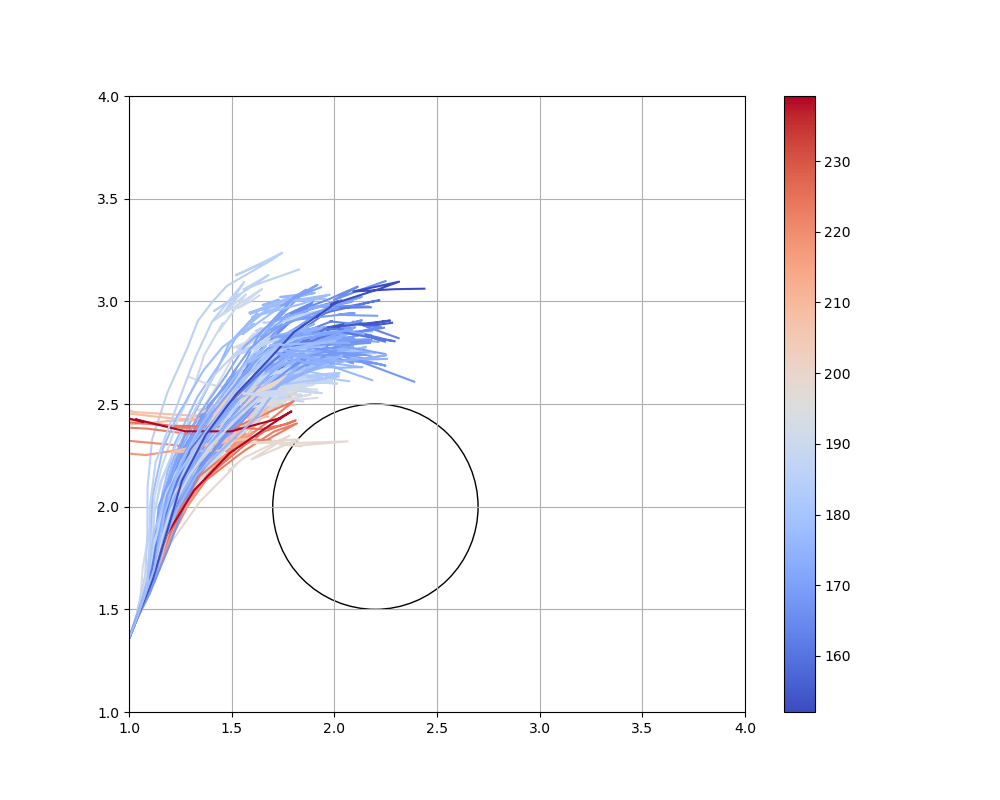
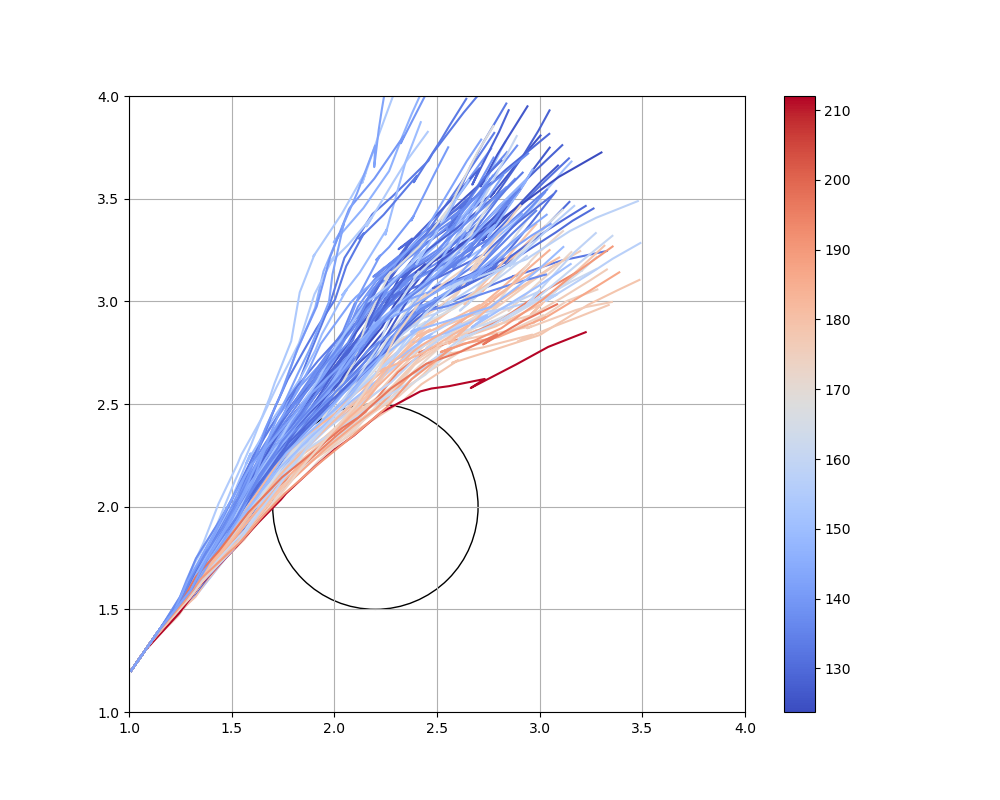
20211024

diff --git a/plot_from_csv.py b/plot_from_csv.py
@@ -15,6 +15,18 @@ def calculate_cost(data):
     # print(np.shape(data)[0])
     for i in range(np.shape(data)[0]):
         cost += (data[i][0] - 4.0) ** 2 + (data[i][1] - 4.0)**2
+        if (data[i][0] - obstcle_x) ** 2 + (data[i][1] - obstcle_y)**2 < r **2:
+            cost += 10   
+    return cost
+
+def calculate_multi_cost(data):
+    cost = 0
+    # print(np.shape(data)[0])
+    for i in range(np.shape(data)[0]):
+        cost += (data[i][0] - 4.0) ** 2 + (data[i][1] - 4.0)**2
+        for j in range(3):
+            if (data[i][0] - Obstacle_X[j]) ** 2 + (data[i][1] - Obstacle_Y[j])**2 < R[j] **2:
+                cost += 10   
     return cost
 
 def state_cost(data):
@@ -22,6 +34,8 @@ def state_cost(data):
     for i in range(np.shape(data)[0]):
         cost = (data[i][0] - 4.0) ** 2 + (data[i][1] - 4.0)**2
         costs.append(cost)
+    if (data[i][0] - obstcle_x) ** 2 + (data[i][1] - obstcle_y)**2 < r **2:
+        cost += 10000
     return costs
 
 def plot_time(data):
@@ -97,7 +111,7 @@ def sample_multi_data_plot(dataname):
     sample_data_CBF_reshape = sample_data_CBF.reshape(sample_data_CBF.shape[0], sample_data_CBF.shape[1] // 3,3)
     sample_data_CBF_cost = []
     for i in range(len(sample_data_CBF_reshape)):
-        cost1 = calculate_cost(sample_data_CBF_reshape[i])
+        cost1 = calculate_multi_cost(sample_data_CBF_reshape[i])
         sample_data_CBF_cost.append(cost1)
 
     # ax = plt.subplots()
@@ -140,14 +154,14 @@ CBF_50 = loadtxt('50sample_single_CBF.csv', delimiter=',')
 
 
 plt.figure(figsize=(8,8))
-plt.plot(np.transpose(CBF_500)[0], np.transpose(CBF_500)[1],label='500_samples')
-plt.plot(np.transpose(CBF_200)[0], np.transpose(CBF_200)[1],label='200_samples')
-plt.plot(np.transpose(CBF_100)[0], np.transpose(CBF_100)[1],label='100_samples')
-plt.plot(np.transpose(CBF_50)[0], np.transpose(CBF_50)[1],label='50_samples')
+plt.plot(np.transpose(CBF_500)[0], np.transpose(CBF_500)[1],label='500 samples')
+plt.plot(np.transpose(CBF_200)[0], np.transpose(CBF_200)[1],label='200 samples')
+plt.plot(np.transpose(CBF_100)[0], np.transpose(CBF_100)[1],label='100 samples')
+plt.plot(np.transpose(CBF_50)[0], np.transpose(CBF_50)[1],label='50 samples')
 circle1 = plt.Circle((obstcle_x, obstcle_y), r, color='k', fill=False)
 ax = plt.gca()
 ax.add_artist(circle1)
-legend = ax.legend(loc='lower right', shadow=True, fontsize='large')
+legend = ax.legend(loc='lower right', shadow=True, fontsize='x-large')
 target_circle = plt.Circle((target[0], target[1]), 0.2, color='b', fill=False)
 target_circle_1 = plt.Circle((target[0], target[1]), 0.1, color='b', fill=False)
 ax.add_artist(target_circle)
@@ -167,10 +181,10 @@ multi_MPPI_50_40 = loadtxt('50sample_40steps_multi_MPPI.csv', delimiter=',')
 multi_MPPI_100_40 = loadtxt('100sample_40steps_multi_MPPI.csv',delimiter=',')
 
 plt.figure(figsize=(8,8))
-plt.plot(np.transpose(multi_CBF_100_20)[0], np.transpose(multi_CBF_100_20)[1],label='100_samples_MPPI_CBF')
-plt.plot(np.transpose(multi_CBF_50_20)[0], np.transpose(multi_CBF_50_20)[1],label='50_samples_MPPI_CBF')
-plt.plot(np.transpose(multi_MPPI_100_40)[0], np.transpose(multi_MPPI_100_40)[1],label='100_samples_MPPI')
-plt.plot(np.transpose(multi_MPPI_50_40)[0], np.transpose(multi_MPPI_50_40)[1],label='50_samples_MPPI')
+plt.plot(np.transpose(multi_CBF_100_20)[0], np.transpose(multi_CBF_100_20)[1],label='100 samples MPPI-CBF')
+plt.plot(np.transpose(multi_CBF_50_20)[0], np.transpose(multi_CBF_50_20)[1],label='50 samples MPPI-CBF')
+plt.plot(np.transpose(multi_MPPI_100_40)[0], np.transpose(multi_MPPI_100_40)[1],label='100 samples MPPI')
+plt.plot(np.transpose(multi_MPPI_50_40)[0], np.transpose(multi_MPPI_50_40)[1],label='50 samples MPPI')
 
 
 for i in range(len(R)):
@@ -178,8 +192,8 @@ for i in range(len(R)):
     ax = plt.gca()
     ax.add_artist(circle1)
 plt.xlim([0,5.5])
-plt.ylim([0,5.5])
-legend = ax.legend(loc='lower right', shadow=True, fontsize='large')
+plt.ylim([-1,4.5])
+legend = ax.legend(loc='lower right', shadow=True, fontsize='x-large')
 target_circle = plt.Circle((target[0], target[1]), 0.2, color='b', fill=False)
 target_circle_1 = plt.Circle((target[0], target[1]), 0.1, color='b', fill=False)
 ax.add_artist(target_circle)
@@ -195,14 +209,14 @@ MPPI_100 = loadtxt('100sample_20steps_single_MPPI.csv', delimiter=',')
 MPPI_50 = loadtxt('50sample_20steps_single_MPPI.csv', delimiter=',')
 
 plt.figure(figsize=(8,8))
-plt.plot(np.transpose(MPPI_500)[0], np.transpose(MPPI_500)[1],label='500_samples')
-plt.plot(np.transpose(MPPI_200)[0], np.transpose(MPPI_200)[1],label='200_samples')
-plt.plot(np.transpose(MPPI_100)[0], np.transpose(MPPI_100)[1],label='100_samples')
-plt.plot(np.transpose(MPPI_50)[0], np.transpose(MPPI_50)[1],label='50_samples')
+plt.plot(np.transpose(MPPI_500)[0], np.transpose(MPPI_500)[1],label='500 samples')
+plt.plot(np.transpose(MPPI_200)[0], np.transpose(MPPI_200)[1],label='200 samples')
+plt.plot(np.transpose(MPPI_100)[0], np.transpose(MPPI_100)[1],label='100 samples')
+plt.plot(np.transpose(MPPI_50)[0], np.transpose(MPPI_50)[1],label='50 samples')
 circle1 = plt.Circle((obstcle_x, obstcle_y), r, color='k', fill=False)
 ax = plt.gca()
 ax.add_artist(circle1)
-legend = ax.legend(loc='lower right', shadow=True, fontsize='medium')
+legend = ax.legend(loc='lower right', shadow=True, fontsize='x-large')
 target_circle = plt.Circle((target[0], target[1]), 0.2, color='b', fill=False)
 target_circle_1 = plt.Circle((target[0], target[1]), 0.1, color='b', fill=False)
 ax.add_artist(target_circle)
@@ -215,29 +229,29 @@ plt.ylim([0,4.5])
 plt.show()
 
 plt.figure(figsize=(8,8))
-plt.plot(plot_time(MPPI_500), state_cost(MPPI_500),label='500_samples_MPPI')
-plt.plot(plot_time(MPPI_200), state_cost(MPPI_200),label='200_samples_MPPI')
-plt.plot(plot_time(MPPI_100), state_cost(MPPI_100),label='100_samples_MPPI')
-plt.plot(plot_time(MPPI_50), state_cost(MPPI_50),label='50_samples_MPPI')
-plt.plot(plot_time(CBF_500), state_cost(CBF_500),label='500_samples_MPPI_CBF')
-plt.plot(plot_time(CBF_200), state_cost(CBF_200),label='200_samples_MPPI_CBF')
-plt.plot(plot_time(CBF_100), state_cost(CBF_100),label='100_samples_MPPI_CBF')
-plt.plot(plot_time(CBF_50), state_cost(CBF_50),label='50_samples_MPPI_CBF')
+plt.plot(plot_time(MPPI_500), state_cost(MPPI_500),label='500 samples MPPI')
+plt.plot(plot_time(MPPI_200), state_cost(MPPI_200),label='200 samples MPPI')
+plt.plot(plot_time(MPPI_100), state_cost(MPPI_100),label='100 samples MPPI')
+plt.plot(plot_time(MPPI_50), state_cost(MPPI_50),label='50 samples MPPI')
+plt.plot(plot_time(CBF_500), state_cost(CBF_500),label='500 samples MPPI-CBF')
+plt.plot(plot_time(CBF_200), state_cost(CBF_200),label='200 samples MPPI-CBF')
+plt.plot(plot_time(CBF_100), state_cost(CBF_100),label='100 samples MPPI-CBF')
+plt.plot(plot_time(CBF_50), state_cost(CBF_50),label='50 samples MPPI-CBF')
 ax = plt.gca()
 legend = ax.legend(loc='upper right', shadow=True, fontsize='x-large')
-ax.set_xlabel('Time horizon')
-ax.set_ylabel('Costs')
+ax.set_xlabel('Time horizon', fontsize=18)
+ax.set_ylabel('Costs', fontsize=18)
 ax.grid(True)
 plt.show()
 
 plt.figure(figsize=(8,8))
-plt.plot(plot_time(multi_MPPI_100_40), state_cost(multi_MPPI_100_40),label='100_samples_MPPI')
-plt.plot(plot_time(multi_MPPI_50_40), state_cost(multi_MPPI_50_40),label='50_samples_MPPI')
-plt.plot(plot_time(multi_CBF_100_20), state_cost(multi_CBF_100_20),label='100_samples_MPPI_CBF')
-plt.plot(plot_time(multi_CBF_50_20), state_cost(multi_CBF_50_20),label='50_samples_MPPI_CBF')
+plt.plot(plot_time(multi_MPPI_100_40), state_cost(multi_MPPI_100_40),label='100 samples MPPI')
+plt.plot(plot_time(multi_MPPI_50_40), state_cost(multi_MPPI_50_40),label='50 samples MPPI')
+plt.plot(plot_time(multi_CBF_100_20), state_cost(multi_CBF_100_20),label='100 samples MPPI-CBF')
+plt.plot(plot_time(multi_CBF_50_20), state_cost(multi_CBF_50_20),label='50 samples MPPI-CBF')
 ax = plt.gca()
 legend = ax.legend(loc='upper right', shadow=True, fontsize='x-large')
-ax.set_xlabel('Time horizon')
-ax.set_ylabel('Costs')
+ax.set_xlabel('Time horizon', fontsize=18)
+ax.set_ylabel('Costs', fontsize=18)
 ax.grid(True)
 plt.show()

diff --git a/mppi_trajectory_follow.py b/mppi_trajectory_follow.py
@@ -43,15 +43,16 @@ class MPPI():
         self.Obstacle_Y = matrix([1.0, 3.3, 2.5])
         self.R = matrix([1.0, 1.0, 1.0])
 
-        self.use_cbf = True            #use cbf
+        self.use_cbf = False            #use cbf
         self.constraint_use = False      #Orignal MPPI
-        self.multi_ = True             #multi obstacles
+        self.multi_ = False             #multi obstacles
+        self.naive_cbf = True
 
         self.plot_sample = True         #plot sample trajectory
         self.sample_data = np.zeros((self.K,self.T,3))
         self.plot_sample_time = 7
 
-        self.save_data = True
+        self.save_data = False
 
 
     def _compute_total_cost(self, k, time_step):
@@ -239,6 +240,10 @@ class MPPI():
                 delta_U = np.matmul(omega.reshape((1,self.K)),self.noise[:, t])
                 D_u[t]=delta_U
             self.U += D_u
+
+            if self.naive_cbf == True:
+                # print(self.U[0], self.cbf(self.x_init,self.U[0]).reshape(1,2))
+                self.U[0] += self.cbf(self.x_init,self.U[0]).T[0]
 
             s,r1 = self.dynamic(self.x_init,self.U[0])
             r = self.terminal_cost(s, self.U[0])
